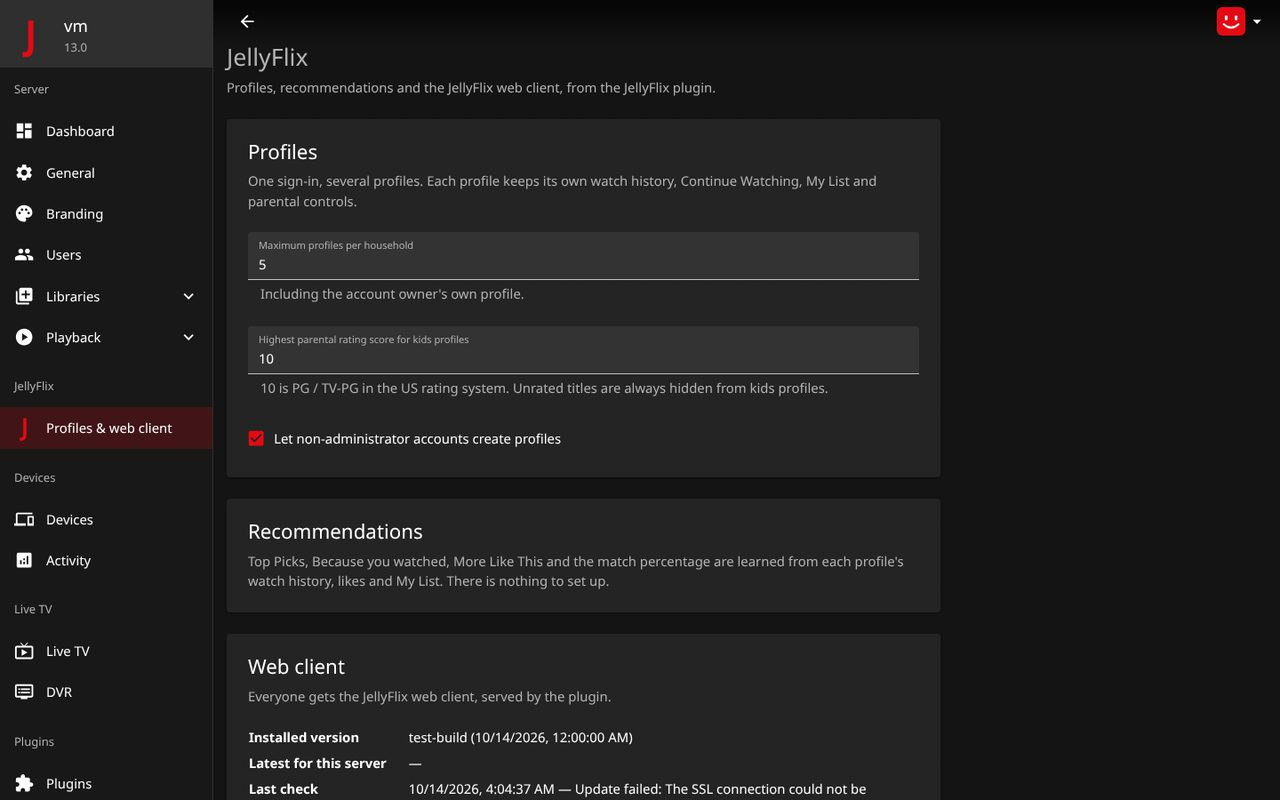
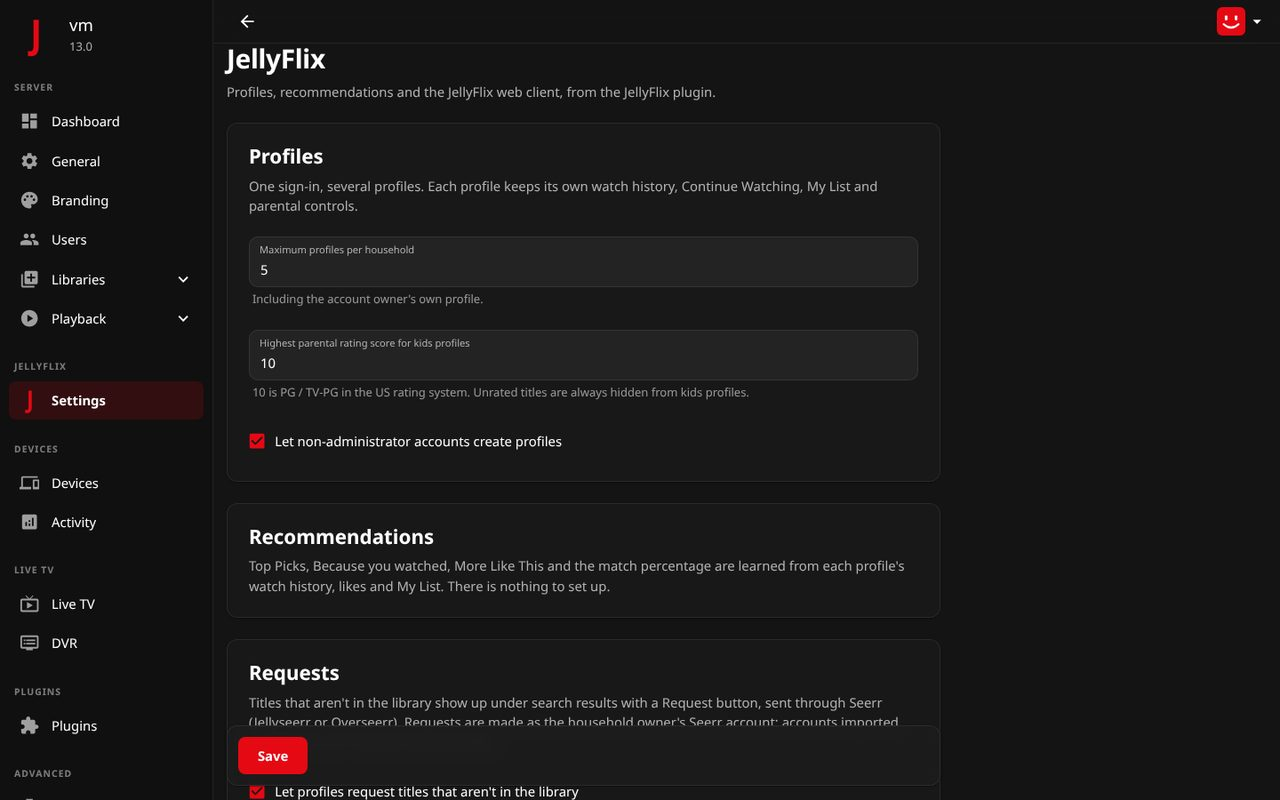
Update the README for requests, the modern dashboard and title page details
Covers requesting from search through Seerr, the modern dashboard and
the JellyFlix settings page (save confirmation, connection test and
update check results), the back button and Video & Audio details on
title pages, with new screenshots.

Claude-Session: https://claude.ai/code/session_01UcX3L2D4GVSLMbVKHiMSry

diff --git a/README.md b/README.md
@@ -37,8 +37,9 @@ genres and Watch It Again.
 ### Title pages
 
 Backdrop and title art, match percentage, Play/Resume that picks up the right episode, trailers, My List, thumbs up and
-down, seasons and episodes, More Like This, cast and crew, and the file's video and audio details (container,
-resolution, HDR format, audio and subtitle tracks, size and bitrate) with 4K / HDR / Dolby Vision / 5.1 / Atmos badges.
+down, seasons and episodes, More Like This, cast and crew, and a back arrow in the top bar. A **Video & Audio** section
+lists the file behind the title (container, resolution and codec, HDR format, audio and subtitle tracks, size and
+bitrate, for each version), and badges such as 4K, HDR, Dolby Vision, 5.1 and Atmos sit next to the year and rating.
 
 <p align="center"><img alt="Episodes" src="docs/screenshots/title-episodes.jpg" width="70%"/></p>
 
@@ -58,18 +59,36 @@ focused title, and LG's Magic Remote pointer works.
 ### Requests
 
 With [Seerr](https://github.com/seerr-team/seerr) (Jellyseerr / Overseerr) set up in the JellyFlix settings, search
-also shows matching movies and shows that aren't in the library, each with a **Request** button. Requests go through
-the household owner's Seerr account, and the cards show what's already requested or on its way.
+also shows a **Not in your library** row: matching movies and shows that the library doesn't have, each with a
+**Request** button. Cards show what's already requested ("Requested"), on its way ("Coming soon") or partly
+available. Requests go through the household owner's Seerr account; kids profiles don't see the row unless allowed. It
+works in TV mode too.
+
+<p align="center"><img alt="Requesting from search" src="docs/screenshots/search-requests.jpg" width="70%"/></p>
 
 ### Dashboard
 
-The admin dashboard uses the JellyFlix look, with a JellyFlix section for profiles, recommendations and web client
-updates.
+With the JellyFlix theme the admin dashboard gets a cleaner, more modern look: rounded cards with hairline borders,
+rounded inputs with a red focus ring, a side menu of pill-shaped items with the current page in red, and a translucent
+top bar. Older HTML pages, such as plugin settings, get the same treatment.
+
+A **JellyFlix** section in the side menu opens a settings page built from the dashboard's own cards and inputs:
+
+- **Profiles**: profiles per household, the parental rating limit for kids profiles, who may create profiles.
+- **Requests**: Seerr's address and API key, kids profiles' access, and **Save and test connection**.
+- **Web client**: the installed and latest version, whether the plugin serves it, automatic updates, and
+  **Check for updates now**.
+
+Saving happens from a bar that stays on screen and confirms the result next to the Save button; the page reads the
+settings back from the server and names any it didn't keep. Testing Seerr and checking for updates each open a panel
+underneath with a progress bar and then the outcome: connected (with Seerr's version) or why not, and up to date, a
+new client installed (with **Reload now**) or why the update failed. The dashboard home also gets a JellyFlix card.
 
 <p align="center">
 <img alt="Dashboard" src="docs/screenshots/dashboard.jpg" width="49%"/>
 <img alt="JellyFlix settings" src="docs/screenshots/dashboard-jellyflix.jpg" width="49%"/>
 </p>
+<p align="center"><img alt="Testing the Seerr connection" src="docs/screenshots/dashboard-requests.jpg" width="70%"/></p>
 
 ## Install
 
@@ -80,8 +99,11 @@ JellyFlix needs **Jellyfin 13** (the `unstable` builds).
 2. Install **JellyFlix** from the catalog and restart Jellyfin.
 
 That's all. The plugin downloads the newest JellyFlix web client built for your Jellyfin version, serves it in place of
-the stock one, and keeps it up to date. See the [plugin's README](https://github.com/yourmomsbasement/JellyFlix-Plugin)
-for details.
+the stock one, and keeps it up to date. Settings are under **JellyFlix → Settings** in the dashboard. See the
+[plugin's README](https://github.com/yourmomsbasement/JellyFlix-Plugin) for details.
+
+Some settings need a recent plugin; the settings page says so when the installed plugin is too old. Update JellyFlix in
+**Dashboard → Plugins** and restart Jellyfin.
 
 ## Releases
 
@@ -130,7 +152,9 @@ Where the code lives:
 | `src/apps/modern/features/home`, `routes/home.tsx` | Home rows and hero |
 | `src/apps/modern/features/title`, `routes/title.tsx` | Title pages |
 | `src/apps/tv` | TV mode: remote navigation, TV home and title pages |
-| `src/apps/dashboard/features/jellyflix` | JellyFlix dashboard settings |
+| `src/apps/dashboard/features/jellyflix`, `routes/jellyflix` | JellyFlix dashboard settings and home card |
+| `src/apps/modern/features/title/utils/mediaInfo.ts` | Video & Audio details and quality badges |
+| `src/themes/jellyflix/dashboard.ts` | The modern dashboard look |
 | `src/apps/legacy/features/search/components/RequestResults.tsx` | Request cards under search results |
 | `src/themes/jellyflix` | The JellyFlix theme |
 
